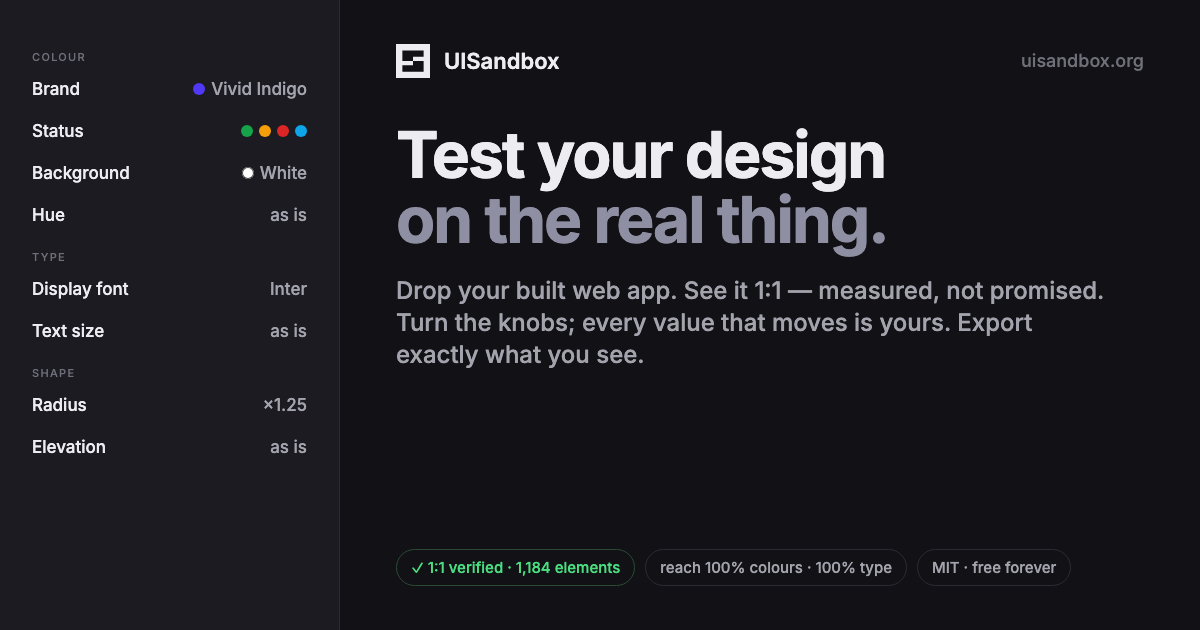
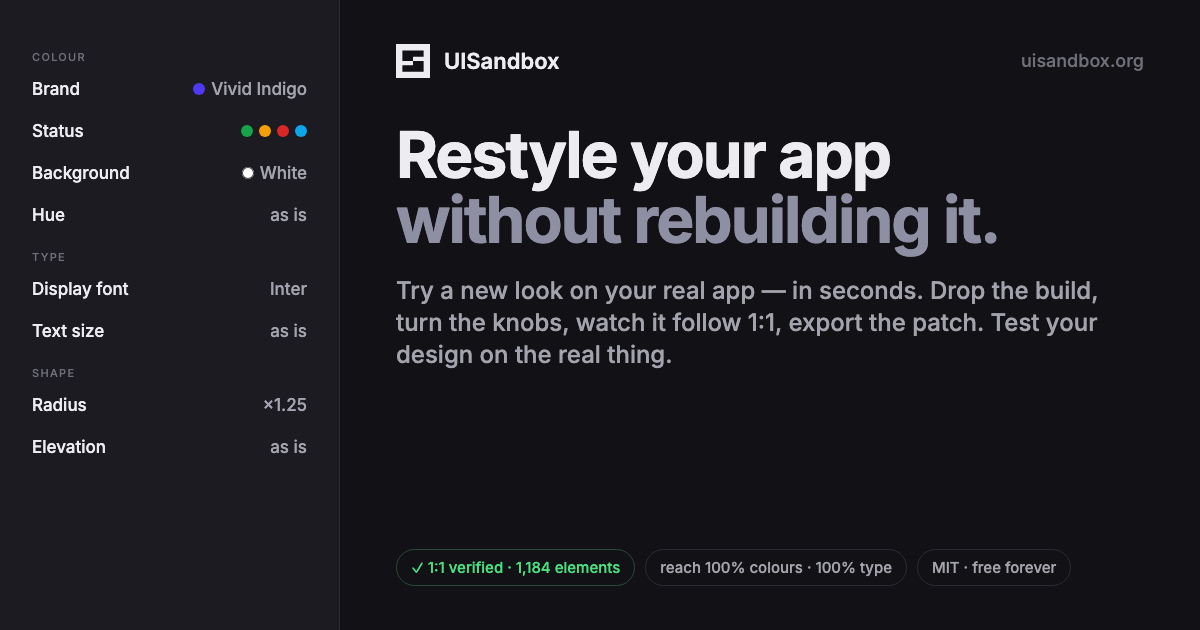
Headline: 'Restyle your app without rebuilding it.' with 'Try a new look on your real app — in seconds' in the sub; slogan kept as kicker; title, meta, OG image, JSON-LD, manifest, README, llms.txt aligned

Changed region(s): [[0.3083, 0.2111, 0.8325, 0.4222], [0.3083, 0.4524, 0.925, 0.6032]]

diff --git a/index.html b/index.html
@@ -3,8 +3,8 @@
   <head>
     <meta charset="UTF-8" />
     <meta name="viewport" content="width=device-width, initial-scale=1.0" />
-    <title>UISandbox — Test your design on the real thing</title>
-    <meta name="description" content="Drop your built web app, see it 1:1 in the browser, turn the knobs — brand, colours, fonts, spacing, radius, elevation — and export exactly what you see. Free, open source, nothing leaves your tab." />
+    <title>UISandbox — Restyle your app without rebuilding it</title>
+    <meta name="description" content="Try a new look on your real app in seconds. Drop the build, turn the knobs — brand, colours, fonts, spacing, radius — watch it follow 1:1, export the change as a patch or tokens. Free, open source, nothing leaves your tab." />
     <link rel="canonical" href="https://uisandbox.org/" />
     <meta name="theme-color" content="#18191d" />
     <link rel="icon" type="image/svg+xml" href="/favicon.svg" />
@@ -19,15 +19,15 @@
     <meta property="og:type" content="website" />
     <meta property="og:site_name" content="UISandbox" />
     <meta property="og:url" content="https://uisandbox.org/" />
-    <meta property="og:title" content="UISandbox — Test your design on the real thing" />
-    <meta property="og:description" content="Drop your built web app, see it 1:1, turn the knobs, export exactly what you see. Free, open source, nothing leaves your tab." />
+    <meta property="og:title" content="UISandbox — Restyle your app without rebuilding it" />
+    <meta property="og:description" content="Try a new look on your real app in seconds: drop the build, turn the knobs, watch it follow 1:1, export the patch. Test your design on the real thing." />
     <meta property="og:image" content="https://uisandbox.org/og.png" />
     <meta property="og:image:width" content="1200" />
     <meta property="og:image:height" content="630" />
     <meta property="og:image:alt" content="UISandbox: a real web app in a sandbox with the knobs beside it" />
     <meta name="twitter:card" content="summary_large_image" />
-    <meta name="twitter:title" content="UISandbox — Test your design on the real thing" />
-    <meta name="twitter:description" content="Drop your built web app, see it 1:1, turn the knobs, export exactly what you see. Free, open source, nothing leaves your tab." />
+    <meta name="twitter:title" content="UISandbox — Restyle your app without rebuilding it" />
+    <meta name="twitter:description" content="Try a new look on your real app in seconds: drop the build, turn the knobs, watch it follow 1:1, export the patch. Test your design on the real thing." />
     <meta name="twitter:image" content="https://uisandbox.org/og.png" />
     <!-- Structured data -->
     <script type="application/ld+json">
@@ -35,8 +35,9 @@
       "@context": "https://schema.org",
       "@type": "SoftwareApplication",
       "name": "UISandbox",
+      "slogan": "Test your design on the real thing.",
       "url": "https://uisandbox.org/",
-      "description": "Test your design on the real thing: drop a built web app, see it 1:1 in the browser, turn the knobs (brand, colours, fonts, spacing, radius, elevation, motion) and export exactly what you see. Everything runs in the tab; nothing is uploaded.",
+      "description": "Restyle your app without rebuilding it: drop a built web app, see it 1:1 in the browser, turn the knobs (brand, colours, fonts, spacing, radius, elevation, motion) and export the change as a patch or tokens. Test your design on the real thing. Everything runs in the tab; nothing is uploaded.",
       "applicationCategory": "DesignApplication",
       "operatingSystem": "Web",
       "browserRequirements": "A browser with service workers (Chrome, Edge, Firefox, Safari)",
@@ -63,8 +64,8 @@
     <div id="root">
       <!-- What a crawler or a no-JS visitor sees; the app replaces this on mount. -->
       <main style="max-width:640px;margin:15vh auto 0;padding:0 24px;font:16px/1.5 Inter,system-ui,sans-serif;color:#ececf1;background:#121216">
-        <h1 style="font-size:24px;letter-spacing:-.02em">Test your design on the real thing.</h1>
-        <p>UISandbox renders your <b>built</b> web app 1:1 in the browser — measured, not promised — and turns every colour, radius, font, size, spacing and shadow in its CSS into a knob that moves <em>your</em> value. Brand and colour families, background, fonts, text size, line height, letter spacing, weight, spacing, radius, border width, elevation, motion, gradient angle, hue, saturation, contrast, your dark mode. Export exactly what you see: CSS, JSON, a patch, your files patched, design tokens, Swift and Android constants.</p>
+        <h1 style="font-size:24px;letter-spacing:-.02em">Restyle your app without rebuilding it.</h1>
+        <p>Try a new look on your real app — in seconds. UISandbox renders your <b>built</b> web app 1:1 in the browser — measured, not promised — and turns every colour, radius, font, size, spacing and shadow in its CSS into a knob that moves <em>your</em> value. Brand and colour families, background, fonts, text size, line height, letter spacing, weight, spacing, radius, border width, elevation, motion, gradient angle, hue, saturation, contrast, your dark mode. Export exactly what you see: CSS, JSON, a patch, your files patched, design tokens, Swift and Android constants.</p>
         <p>Nothing leaves the tab: files are read in the page and served to the frame by a service worker on this origin. Free, open source (MIT). <a href="https://github.com/AlexanderKaan/uisandbox" style="color:#c9c9d3">Source on GitHub</a> · <a href="/llms.txt" style="color:#c9c9d3">llms.txt</a></p>
         <noscript><p>UISandbox needs JavaScript and a browser with service workers.</p></noscript>
         <footer style="margin-top:32px;font-size:13px;color:#8f8fa3">Made with ♥ by <a href="https://github.com/AlexanderKaan" style="color:#c9c9d3">Alexander Kaan</a> at <a href="https://pageminds.com/" style="color:#c9c9d3">Pageminds</a> · © Pageminds · MIT, free forever · <a href="https://www.npmjs.com/package/uisandbox-mcp" style="color:#c9c9d3">MCP server</a></footer>

diff --git a/src/app/Intake.tsx b/src/app/Intake.tsx
@@ -52,8 +52,9 @@ export function Intake({ onArchive, onUrl, busy, error }: IntakeProps) {
     <div className="intake">
       <section className="hero">
         <div className="intake__mark"><Mark size={44} /></div>
-        <h1>Test your design<br />on the real thing.</h1>
-        <p className="hero__sub">Drop your <b>built</b> web app. It renders here 1:1 — measured, not promised — and every colour, radius, font, size and shadow in its CSS becomes a knob that moves <em>your</em> value. Export exactly what you see.</p>
+        <div className="hero__kicker">Test your design on the real thing</div>
+        <h1>Restyle your app<br />without rebuilding it.</h1>
+        <p className="hero__sub">Try a new look on your real app — in seconds. Drop the build; every colour, font, radius and spacing in its CSS becomes a knob. Turn them, watch the real app follow 1:1, and export the change as a patch or tokens.</p>
         <InstallLine compact />
       </section>
       <div className="card intake__card">

diff --git a/scripts/og/og.html b/scripts/og/og.html
@@ -35,8 +35,8 @@
   </div>
   <div class="stage">
     <div class="brand"><svg viewBox="0 0 64 64"><path d="M64 64H0V0H64V64ZM12 32H32V40H12V52H52V32H32V24H52V12H12V32Z" fill="#ececf1" fill-rule="evenodd"/></svg>UISandbox</div>
-    <h1>Test your design<br><span>on the real thing.</span></h1>
-    <p>Drop your built web app. See it 1:1 — measured, not promised. Turn the knobs; every value that moves is yours. Export exactly what you see.</p>
+    <h1>Restyle your app<br><span>without rebuilding it.</span></h1>
+    <p>Try a new look on your real app — in seconds. Drop the build, turn the knobs, watch it follow 1:1, export the patch. Test your design on the real thing.</p>
   </div>
   <div class="foot"><span class="chip ok">✓ 1:1 verified · 1,184 elements</span><span class="chip">reach 100% colours · 100% type</span><span class="chip">MIT · free forever</span></div>
   <div class="url">uisandbox.org</div>

diff --git a/src/styles/chrome.css b/src/styles/chrome.css
@@ -330,7 +330,8 @@ kbd { font: 11px ui-monospace, Menlo, monospace; padding: 1px 5px; border: 1px s
 
 /* === The one-pager around the door: black and white, quiet === */
 .hero { text-align: center; max-width: 720px; margin-top: 12px; }
-.hero h1 { font-size: clamp(34px, 6vw, 56px); line-height: 1.02; letter-spacing: -0.03em; margin: 14px 0 16px; font-weight: 700; }
+.hero__kicker { font-size: 12px; letter-spacing: .08em; text-transform: uppercase; color: var(--app-fg-faint); margin-top: 14px; }
+.hero h1 { font-size: clamp(34px, 6vw, 56px); line-height: 1.02; letter-spacing: -0.03em; margin: 8px 0 16px; font-weight: 700; }
 .hero__sub { font-size: 16px; line-height: 1.5; color: var(--app-fg-muted); max-width: 58ch; margin: 0 auto 18px; }
 .install--compact { max-width: 440px; margin: 0 auto; }
 .landing { width: min(760px, 100%); display: flex; flex-direction: column; gap: 40px; margin-top: 24px; }

diff --git a/src/app/App.tsx b/src/app/App.tsx
@@ -105,7 +105,7 @@ export function App() {
   // The tab title says which project is open (a hostile page may rewrite it —
   // security.md — so it is set from here on every load, not trusted).
   useEffect(() => {
-    document.title = loaded ? `UISandbox — ${loaded.project.name}` : 'UISandbox — Test your design on the real thing'
+    document.title = loaded ? `UISandbox — ${loaded.project.name}` : 'UISandbox — Restyle your app without rebuilding it'
   }, [loaded])
   const changedCount = useMemo(() => {
     if (!loaded) return 0

diff --git a/notes/decisions.md b/notes/decisions.md
@@ -785,3 +785,11 @@ react-virtualized 100/100/100 (180 el., all runtime inline styles tokenised).
     Nothing leaves your tab · From your terminal or your agent (the install
     tabs) · Who made this. Black and white, no claim the meter would
     contradict. `scripts/og/shots.mjs` renders the screenshots from the app.
+121. **The headline says the job.** H1 "Restyle your app without rebuilding
+    it." — the job, the aha, the contrast with the normal workflow; the sub
+    opens with "Try a new look on your real app — in seconds." and says what
+    a knob is and what comes out (a patch, tokens). "Test your design on the
+    real thing" stays as the kicker/slogan (and JSON-LD `slogan`), not as the
+    line that has to explain the tool. Carried through title, description,
+    OG image (re-rendered), Twitter, JSON-LD, the crawlable block, manifest,
+    README, llms.txt.

diff --git a/README.md b/README.md
@@ -1,6 +1,6 @@
 # UISandbox
 
-**Test your design on the real thing.** Drop your built web app, see it 1:1 in a sandbox, then turn the knobs — brand, colour families, background, fonts, size, spacing, radius, elevation, motion — and every value that moves is *your* value. Export exactly what you see. Open source, MIT, free forever · [uisandbox.org](https://uisandbox.org)
+**Restyle your app without rebuilding it.** Try a new look on your real app in seconds: drop your built web app, see it 1:1 in a sandbox, then turn the knobs — brand, colour families, background, fonts, size, spacing, radius, elevation, motion — and every value that moves is *your* value. Export exactly what you see. Open source, MIT, free forever · [uisandbox.org](https://uisandbox.org)
 
 ## What it does
 
